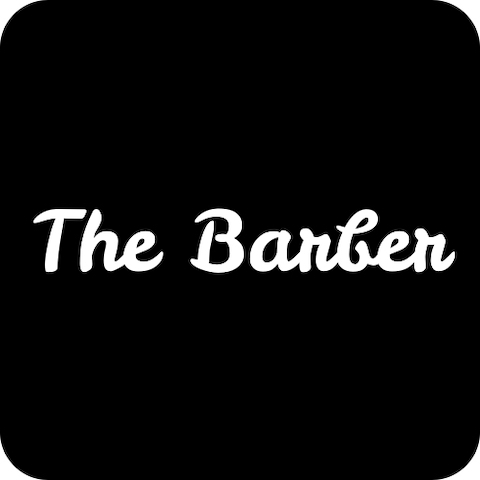
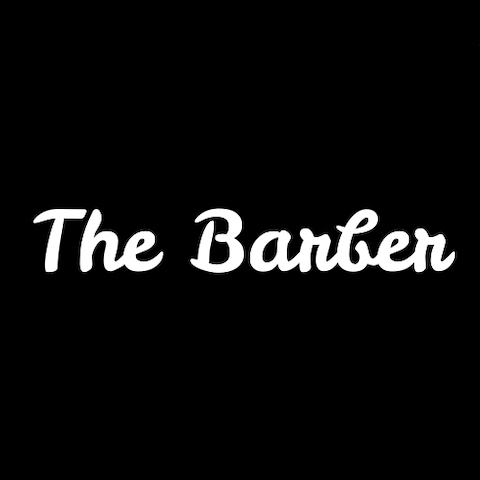
Optimizing

diff --git a/index.html b/index.html
@@ -32,7 +32,7 @@
         <div id="preloader">
             <div class="scroll-static"></div>
         </div>
-       <!-- end page loader  -->
+        <!-- end page loader  -->
 
         <!-- start landing wrapper  -->
         <div id="particles-js" class="landing_wrapper no-bg-img">
@@ -216,10 +216,22 @@ work filter end -->
 
                                 <div class="row works">
                                     <!-- work single item  -->
-                                    <div class="col-lg-4 col-md-6 col-sm-6 web">
+                                    <div class="col-lg-4 col-md-6 col-sm-12 web">
                                         <div class="work_single_item rounded">
                                             <a class="ajax-popup-link" aria-label="label" href="html/work-details-thebarber.html">
-                                                <img class="img-fluid" src="img/works/thebarber.jpg" alt="">
+
+
+                                                <!-- <img class="img-fluid" src="img/works/thebarber.jpg" alt=""> WEBP TEST -->
+                                                <picture>
+
+                                                    <source class="img-fluid" type="image/webp" srcset="img/portfolio/thebarber.webp">
+
+                                                    <source class="img-fluid" type="image/jpeg" srcset="img/portfolio/thebarber.jpg">
+
+                                                    <img src="img/works/thebarber.jpg" class="img-fluid" alt="">
+
+                                                </picture>
+
                                                 <div class="work_info">
                                                     <h6 title="The Barber At BMG">The Barber At BMG</h6>
                                                 </div>
@@ -227,10 +239,23 @@ work filter end -->
                                         </div>
                                     </div>
                                     <!-- work single item  -->
-                                    <div class="col-lg-4 col-md-6 col-sm-6 web">
+                                    <div class="col-lg-4 col-md-6 col-sm-12 web">
                                         <div class="work_single_item rounded">
                                             <a class="ajax-popup-link" aria-label="label" href="html/work-details-hoosiercanine.html">
-                                                <img class="img-fluid" src="img/works/hoosiercanine.jpg" alt="">
+
+
+                                                <!--  <img class="img-fluid" src="img/works/hoosiercanine.jpg" alt=""> WEBP TEST -->
+                                                <picture>
+
+                                                    <source class="img-fluid" type="image/webp" srcset="img/portfolio/hoosiercanine.webp">
+
+                                                    <source class="img-fluid" type="image/jpeg" srcset="img/portfolio/hoosiercanine.jpg">
+
+                                                    <img src="img/works/hoosiercanine.jpg" class="img-fluid" alt="">
+
+                                                </picture>
+
+
                                                 <div class="work_info">
                                                     <h6 title="Hoosier Canine">Hoosier Canine</h6>
                                                 </div>
@@ -238,10 +263,23 @@ work filter end -->
                                         </div>
                                     </div>
                                     <!-- work single item  -->
-                                    <div class="col-lg-4 col-md-6 col-sm-6 web">
+                                    <div class="col-lg-4 col-md-6 col-sm-12 web">
                                         <div class="work_single_item rounded">
                                             <a class="ajax-popup-link" aria-label="label" href="html/work-details-hoosierdoggy.html">
-                                                <img class="img-fluid" src="img/works/hoosierdog.jpeg" alt="">
+
+
+                                                <!-- <img class="img-fluid" src="img/works/hoosierdog.jpeg" alt=""> WEBP TEST -->
+                                                <picture>
+
+                                                    <source class="img-fluid" type="image/webp" srcset="img/portfolio/hoosierdog.webp">
+
+                                                    <source class="img-fluid" type="image/jpeg" srcset="img/portfolio/hoosierdog.jpeg">
+
+                                                    <img src="img/works/hoosierdog.jpeg" class="img-fluid" alt="">
+
+                                                </picture>
+
+
                                                 <div class="work_info">
                                                     <h6 title="Hoosier Doggy Daycare">Hoosier Doggy Daycare</h6>
                                                 </div>
@@ -249,10 +287,25 @@ work filter end -->
                                         </div>
                                     </div>
                                     <!-- work single item  -->
-                                    <div class="col-lg-4 col-md-6 col-sm-6 web">
+                                    <div class="col-lg-4 col-md-6 col-sm-12 web">
                                         <div class="work_single_item rounded">
                                             <a class="ajax-popup-link" aria-label="label" href="html/work-details-finejewelry.html">
-                                                <img class="img-fluid" src="img/works/finejewerly.jpeg" alt="">
+                                                
+                                                
+                                                <!-- <img class="img-fluid" src="img/works/finejewerly.jpeg" alt="">
+WEBP TEST -->
+                                                <picture>
+
+                                                    <source class="img-fluid" type="image/webp" srcset="img/portfolio/finejewerly.webp">
+
+                                                    <source class="img-fluid" type="image/jpeg" srcset="img/portfolio/finejewerly.jpeg">
+
+                                                    <img src="img/works/finejewerly.jpeg" class="img-fluid" alt="">
+
+                                                </picture>
+
+
+                                               
                                                 <div class="work_info">
                                                     <h6 title="Ebbinghouse Fine Jewelry">Ebbinghouse Fine Jewelry</h6>
                                                 </div>
@@ -260,16 +313,16 @@ work filter end -->
                                         </div>
                                     </div>
                                     <!-- work single item
-                                    <div class="col-lg-4 col-md-6 col-sm-6 upcoming">
-                                        <div class="work_single_item rounded">
-                                            <a class="ajax-popup-link" aria-label="label" href="html/work-details-amrunclub.html">
-                                                <img class="img-fluid" src="img/works/amrunclub.png" alt="">
-                                                <div class="work_info">
-                                                    <h6 title="AM RUN CLUB">AM RUN CLUB</h6>
-                                                </div>
-                                            </a>
-                                        </div>
-                                    </div> -->
+<div class="col-lg-4 col-md-6 col-sm-6 upcoming">
+<div class="work_single_item rounded">
+<a class="ajax-popup-link" aria-label="label" href="html/work-details-amrunclub.html">
+<img class="img-fluid" src="img/works/amrunclub.png" alt="">
+<div class="work_info">
+<h6 title="AM RUN CLUB">AM RUN CLUB</h6>
+</div>
+</a>
+</div>
+</div> -->
                                 </div>
                             </div>
                         </div>
@@ -340,7 +393,7 @@ work filter end -->
                                         <span>Hoosier Canine</span>
                                     </div>
                                     <!-- end testimonial single item -->
-                                     <!-- start testimonial single item -->
+                                    <!-- start testimonial single item -->
                                     <div class="testimonial_single_item p-3">
                                         <img class="rounded" src="img/testimonials/hoosierdog.jpg" alt="Hoosier Dog">
                                         <p class="p-3">Garrett has been great to work with us helping build a website for a small business. He kept things simple and easy to use for my customers and also given us great ideas and advice. We have always been able to get in contact with him quickly and he is very prompt to make changes or updates to our page. It’s been a pleasurable business experience and I would highly recommend him!</p>
@@ -397,16 +450,16 @@ work filter end -->
                             </div>
                             <!-- start contact info ( email - phone) -->
                             <div class="col-lg-4 p-3">
-                                    <h5 class="mb-2">Phone</h5>
-                                    <a aria-label="label" href="tel:812-361-9922">Call or Text</a>
+                                <h5 class="mb-2">Phone</h5>
+                                <a aria-label="label" href="tel:812-361-9922">Call or Text</a>
                             </div>
                             <div class="col-lg-4 p-3">
-                                    <h5 class="mb-2">Email</h5>
-                                    <a aria-label="label" href="mailto:unshiftedbitdev@gmail.com">unshiftedbitdev@gmail.com </a>
+                                <h5 class="mb-2">Email</h5>
+                                <a aria-label="label" href="mailto:unshiftedbitdev@gmail.com">unshiftedbitdev@gmail.com </a>
                             </div>
                             <div class="col-lg-4 p-3">
-                                    <h5 class="mb-2">Facebook</h5>
-                                    <a aria-label="label" href="https://www.facebook.com/people/Unshifted-Bit-Development/100063782574032/">Unshifted Bit Development</a>
+                                <h5 class="mb-2">Facebook</h5>
+                                <a aria-label="label" href="https://www.facebook.com/people/Unshifted-Bit-Development/100063782574032/">Unshifted Bit Development</a>
                             </div>
                             <!-- end contact form -->
                         </div>
